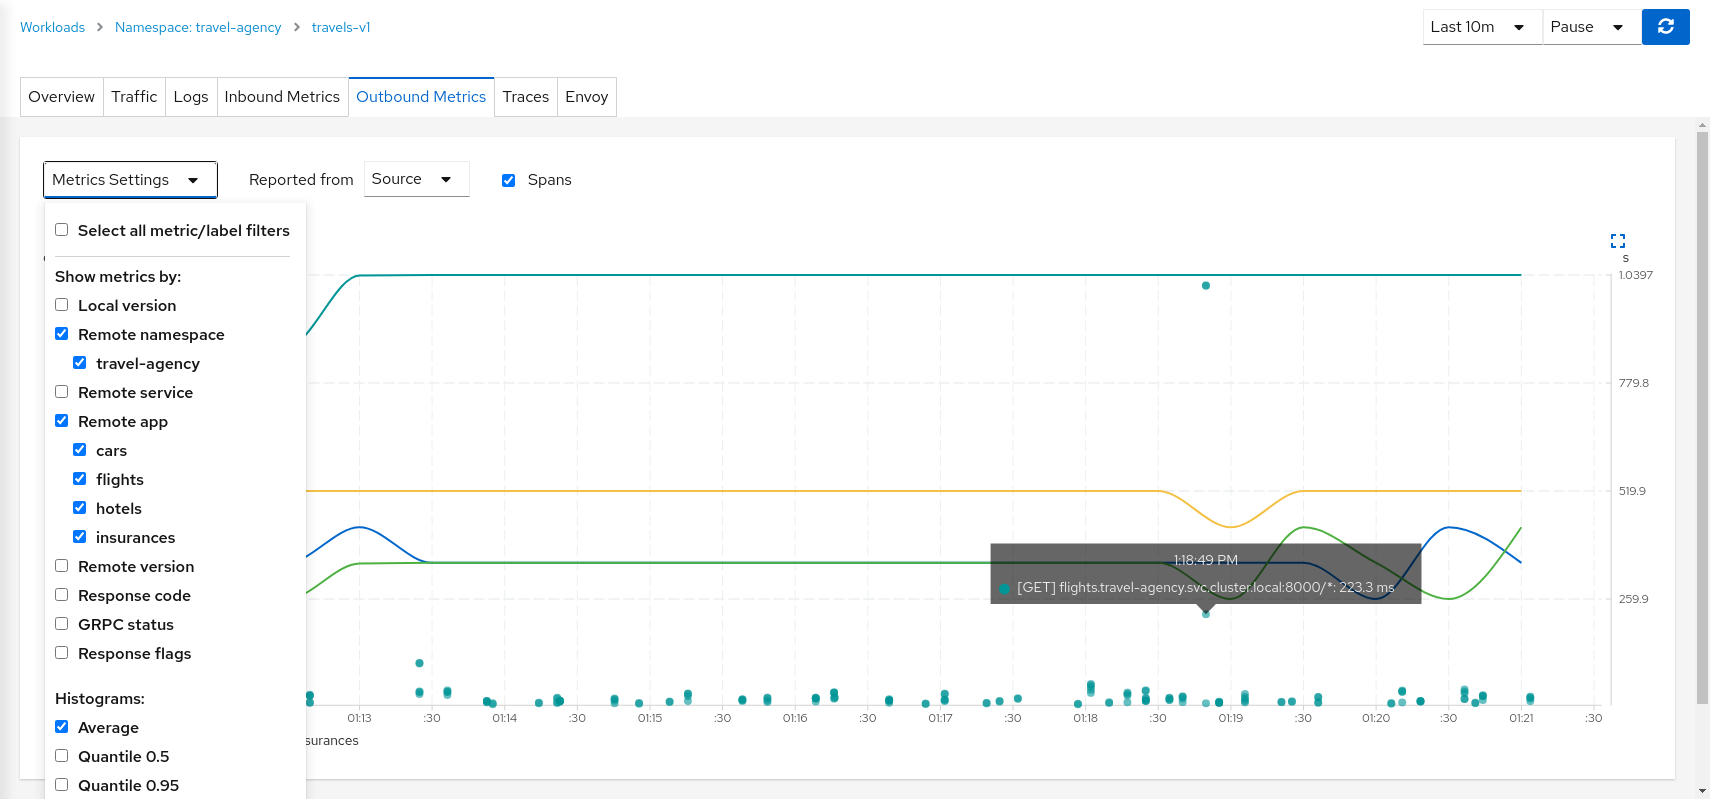
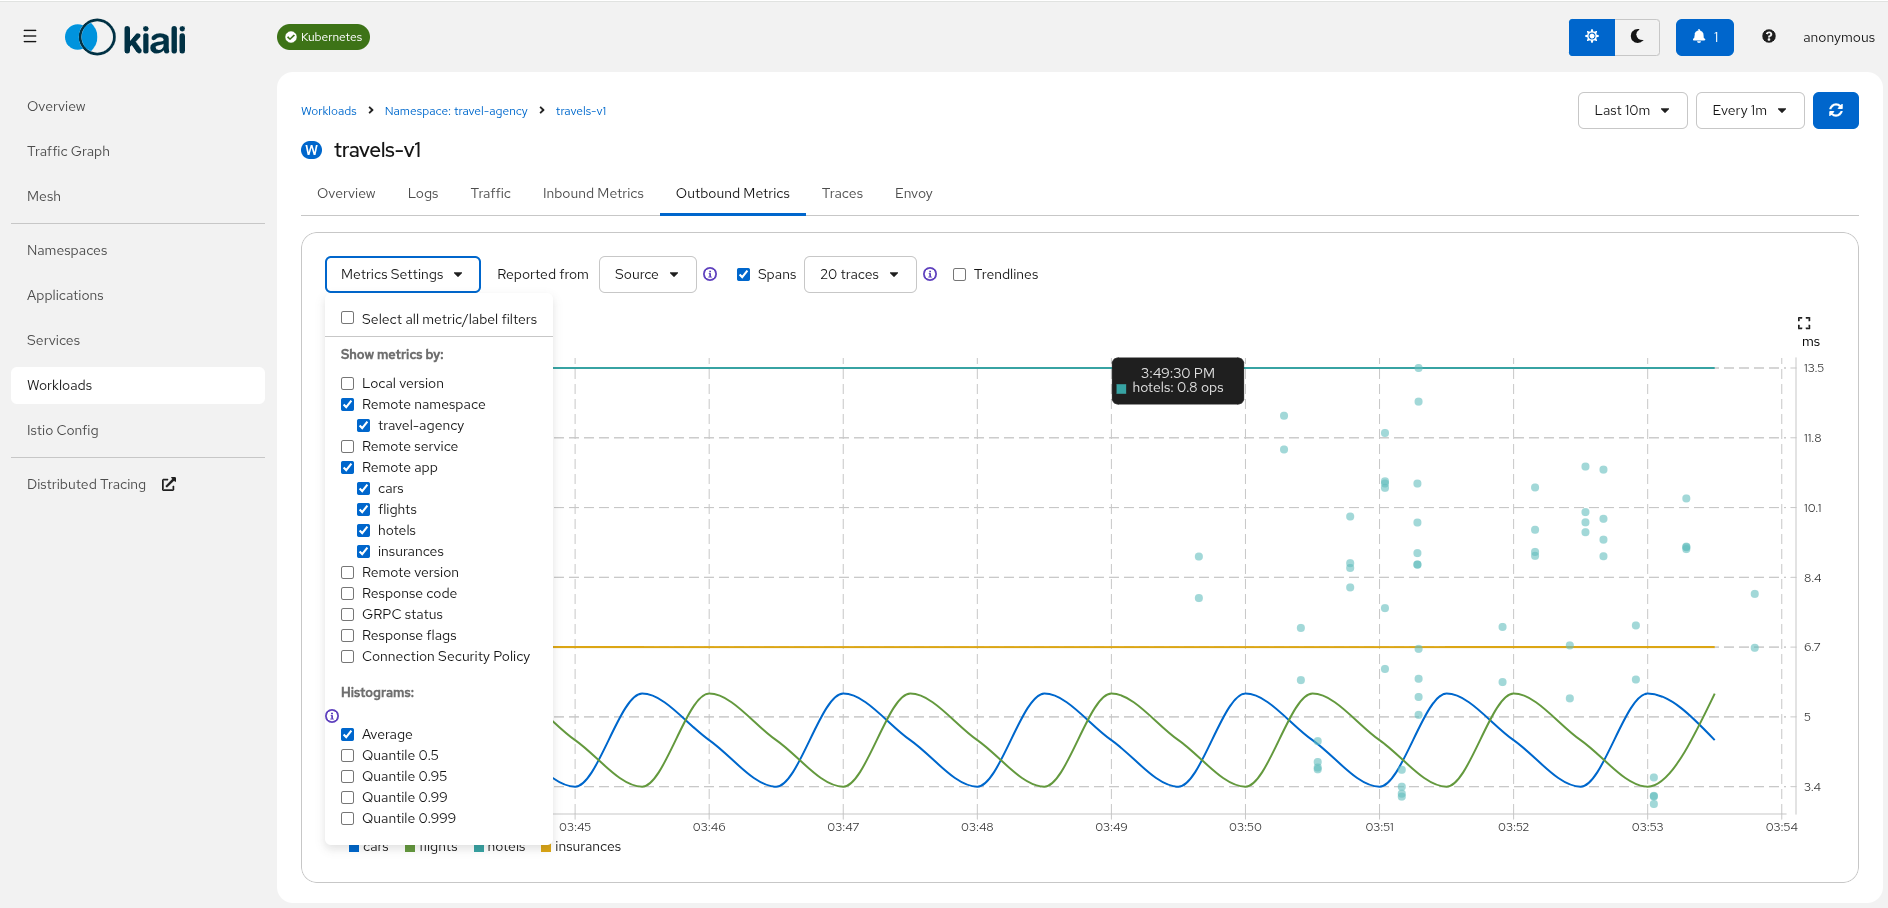
Complete Observe the Mesh chapter qualification for Kind.
Replace application details screenshots, fix the travels node graph
capture, add an Explore Further section for other list and detail pages,
and remove remaining qualification placeholders.

diff --git a/content/en/docs/Tutorials/travels/04-observe-the-mesh.md b/content/en/docs/Tutorials/travels/04-observe-the-mesh.md
@@ -129,19 +129,11 @@ Navigate to the *travels* application
 
 ![Travels Application](/images/tutorial/04-03-travels-application.png "Travels Application")
 
-{{% alert color="info" %}}
-Screenshot will be updated during Kind qualification.
-{{% /alert %}}
-
 An *application* groups workloads and services that share the same application label. Telemetry and tracing signals are grouped by application even when multiple workloads are involved.
 
 At this point the *travels* application consists of a *travels-v1* workload exposed through the *travels* service. Click the *travels-v1* workload link in the application overview.
 
 ![Travels-v1 Workload](/images/tutorial/04-03-travels-v1-workload.png "Travels-v1 Workload")
-
-{{% alert color="info" %}}
-Screenshot will be updated during Kind qualification.
-{{% /alert %}}
 
 {{% alert title="Step 2" color="success" %}}
 Examine **Outbound Metrics** for *travels-v1*
@@ -151,19 +143,11 @@ Open the **Outbound Metrics** tab on the *travels-v1* workload.
 
 ![Travels-v1 Metrics](/images/tutorial/04-03-travels-v1-metrics.png "Travels-v1 Metrics")
 
-{{% alert color="info" %}}
-Screenshot will be updated during Kind qualification.
-{{% /alert %}}
-
 The metrics tab shows charts built from Istio proxy telemetry. Expand the **Request volume** chart for a closer look:
 
-![Travels-v1 Request Volume Chart](/images/tutorial/04-03-travels-v1-metrics-request-volume.png "Travels-v1 Request Volume Chart")
-
-{{% alert color="info" %}}
-Screenshot will be updated during Kind qualification.
-{{% /alert %}}
-
 Use **Metrics Settings** to change grouping and aggregation. Enable the **spans** checkbox to correlate metrics with tracing spans in the same chart.
+
+![Travels-v1 Request Volume Chart](/images/tutorial/04-03-travels-v1-metrics-request-volume.png "Travels-v1 Request Volume Chart")
 
 In the context of the *travels* application, *hotels* request volume is higher than the other *travel-agency* services. Request duration looks normal, so the asymmetry is likely part of the application business logic rather than a performance problem.
 
@@ -183,10 +167,6 @@ Two main business methods appear in the application logs: *GetDestinations* and 
 
 ![Travels-v1 Logs GetTravelQuote](/images/tutorial/04-03-travels-v1-logs-gettravelquote.png "Travels-v1 Logs GetTravelQuote")
 
-{{% alert color="info" %}}
-Screenshots will be updated during Kind qualification.
-{{% /alert %}}
-
 As described in the [Travel Demo design]({{< relref "./02-install-travel-demo/#travel-agency-namespace" >}}), an initial query returns available hotels before the user selects a destination and requests quotes from the other services — which explains the higher *hotels* utilization.
 
 {{% alert title="Step 4" color="success" %}}
@@ -199,10 +179,22 @@ Open the **Traces** tab on *travels-v1*. Compare individual traces with the metr
 
 ![Travels-v1 Traces](/images/tutorial/04-03-travels-v1-tracing-details.png "Travels-v1 Traces")
 
-Individual spans can be compared in more detail to pinpoint a slow step in a larger request flow.
+Click an interesting trace to see the trace details. Individual spans can be compared in more detail to pinpoint a slow step in a larger request flow.
 
 ![Travels-v1 Spans](/images/tutorial/04-03-travels-v1-tracing-spans.png "Travels-v1 Spans")
 
-{{% alert color="info" %}}
-Screenshots will be updated during Kind qualification.
-{{% /alert %}}
+## Explore Further
+
+This chapter focused on the graph and on the *travels-v1* workload detail. The same observability tools are available throughout Kiali — browse the list pages and open any component to explore its detail view.
+
+- **Namespaces** — open *travel-portal* or *travel-agency* for namespace health and shortcuts to filtered list views.
+- **Applications** — compare *travels* in *travel-agency* with portal apps such as *viaggi* or *voyages*.
+- **Services** — inspect *hotels*, which carried more load in the graph walkthrough.
+- **Workloads** — open *hotels-v1* or a portal workload and review the same tabs used here.
+- **Istio Config** — browse VirtualServices, DestinationRules, and other Istio objects with validation and YAML.
+
+Each detail page starts with an **Overview** tab (mini-graph, health, and links to related objects). Applications, services, and workloads also provide **Traffic**, **Metrics**, and **Traces** tabs. Workloads add **Logs** and **Envoy**, as you saw on *travels-v1*.
+
+See [Detail Views]({{< ref "/docs/Features/details" >}}) for a full description of each tab.
+
+When you are ready to change mesh behavior — not only observe it — continue to [Connect]({{< relref "./05-connect" >}}), where Kiali wizards help configure request routing and other traffic management scenarios.
